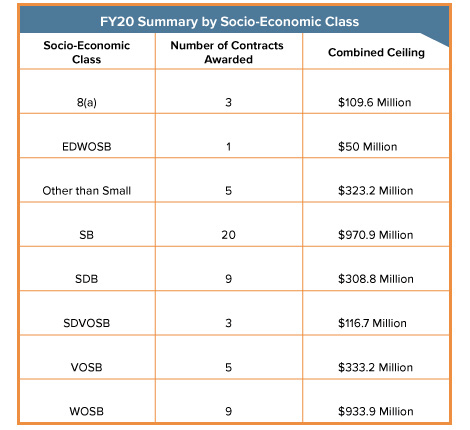
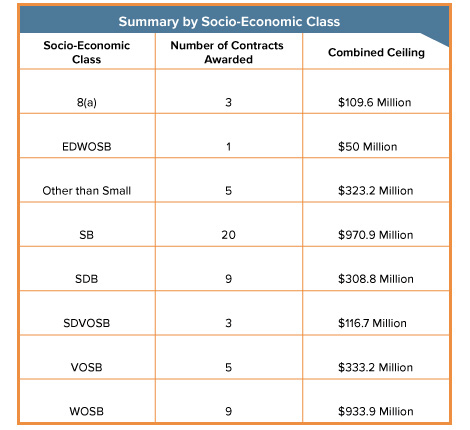
Updated SBIR charts

Changed region(s): [[0.2085, 0.0302, 0.7745, 0.0605]]

diff --git a/_includes/sbir.html b/_includes/sbir.html
@@ -72,7 +72,7 @@
 
 <div class="flex-wrapper-big">
     <div class="infoblock centered">
-        <h4>SBIR/STTR Summary of Awards</h4>
+        <h4>SBIR/STTR Summary of Awards Through FY20</h4>
     </div>
 </div>
 
